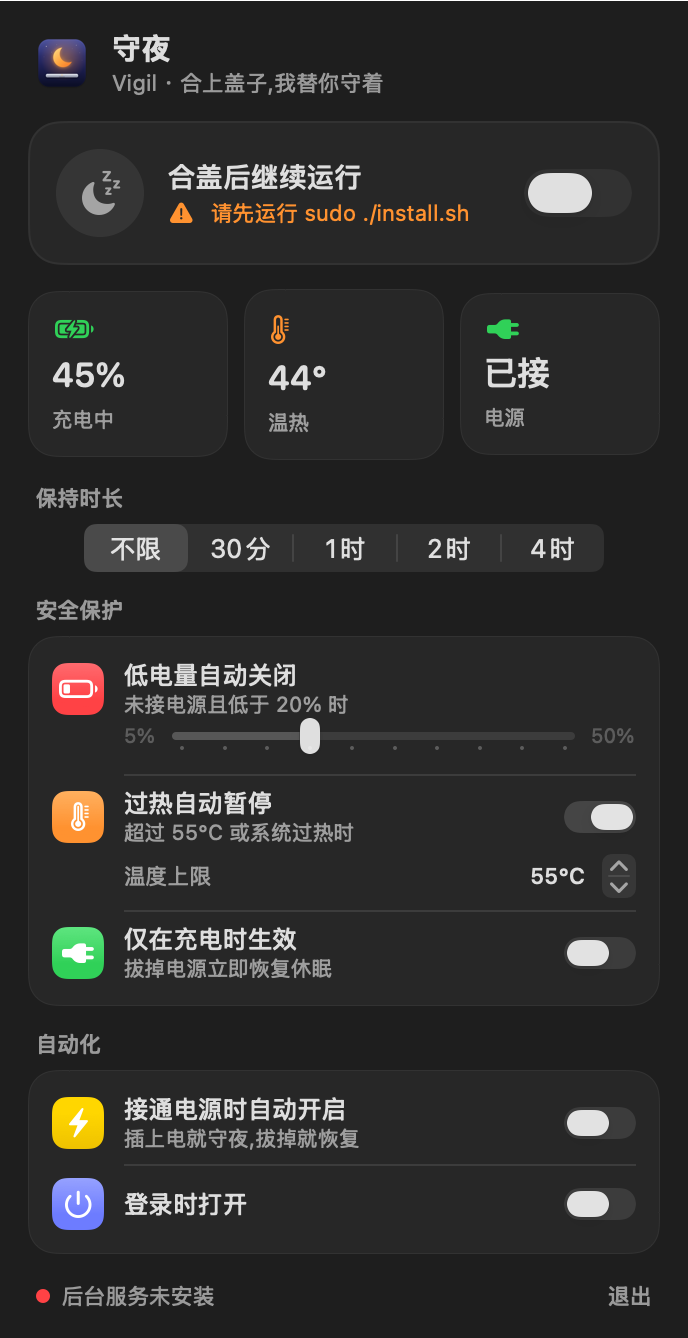
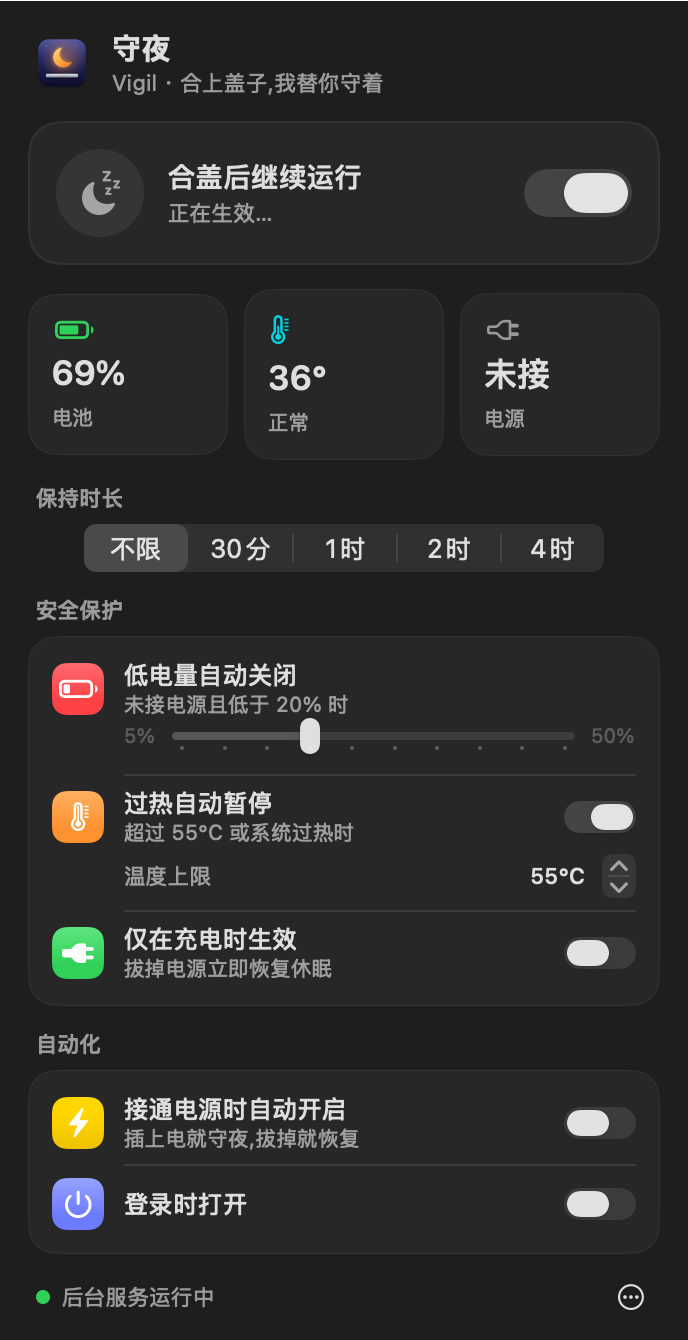
1.1.0: one-click install from the app, DMG release, conflict detection
- Install/update/uninstall the daemon from the panel via the standard
  macOS administrator dialog; no Terminal or Xcode needed
- build.sh --dmg produces a drag-to-Applications disk image
- Daemon records external changes to SleepDisabled; the panel warns
  when another tool is fighting over it
- Panel offers to update the daemon when the bundled copy differs
- Amber menu bar icon while active

diff --git a/App/Sources/PanelView.swift b/App/Sources/PanelView.swift
@@ -7,6 +7,8 @@ struct PanelView: View {
         VStack(spacing: 12) {
             header
             HeroCard()
+            if store.hasConflict { ConflictBanner() }
+            if store.daemonOutdated { UpdateBanner() }
             MetricsRow()
             DurationCard()
             SafetyCard()
@@ -43,13 +45,80 @@ struct PanelView: View {
                 .font(.system(size: 11))
                 .foregroundStyle(.secondary)
             Spacer()
-            Button("退出") { store.quit() }
-                .buttonStyle(.borderless)
-                .font(.system(size: 11, weight: .medium))
-                .foregroundStyle(.secondary)
+            Menu {
+                Button("查看日志") {
+                    NSWorkspace.shared.open(URL(fileURLWithPath: "/var/log/vigil.log"))
+                }
+                Button("GitHub 主页") {
+                    NSWorkspace.shared.open(URL(string: "https://github.com/mqm08/vigil-lid-awake")!)
+                }
+                Divider()
+                Button("卸载守夜…", role: .destructive) { confirmUninstall() }
+                Divider()
+                Button("退出") { store.quit() }
+            } label: {
+                Image(systemName: "ellipsis.circle")
+                    .font(.system(size: 13))
+                    .foregroundStyle(.secondary)
+            }
+            .menuStyle(.borderlessButton)
+            .menuIndicator(.hidden)
+            .fixedSize()
         }
         .padding(.horizontal, 4)
         .padding(.top, 2)
+    }
+}
+
+extension PanelView {
+    private func confirmUninstall() {
+        let alert = NSAlert()
+        alert.messageText = "卸载守夜?"
+        alert.informativeText = "会移除后台服务、设置和应用本身,休眠行为恢复为系统默认。"
+        alert.addButton(withTitle: "卸载")
+        alert.addButton(withTitle: "取消")
+        alert.buttons.first?.hasDestructiveAction = true
+        NSApp.activate(ignoringOtherApps: true)
+        if alert.runModal() == .alertFirstButtonReturn {
+            store.uninstallEverything()
+        }
+    }
+}
+
+struct UpdateBanner: View {
+    @EnvironmentObject var store: Store
+    var body: some View {
+        HStack(spacing: 8) {
+            Image(systemName: "arrow.triangle.2.circlepath.circle.fill")
+                .foregroundStyle(Theme.emberDeep)
+            Text("后台服务有新版本").font(.system(size: 12, weight: .semibold))
+            Spacer(minLength: 0)
+            Button(store.isInstalling ? "更新中…" : "更新") { store.installDaemon() }
+                .buttonStyle(.borderedProminent).tint(Theme.emberDeep).controlSize(.small)
+                .disabled(store.isInstalling)
+        }
+        .padding(10)
+        .background(RoundedRectangle(cornerRadius: 10, style: .continuous).fill(Theme.ember.opacity(0.12)))
+    }
+}
+
+struct ConflictBanner: View {
+    var body: some View {
+        HStack(alignment: .top, spacing: 8) {
+            Image(systemName: "exclamationmark.triangle.fill")
+                .foregroundStyle(.orange)
+            VStack(alignment: .leading, spacing: 2) {
+                Text("有其他程序在修改休眠设置")
+                    .font(.system(size: 12, weight: .semibold))
+                Text("请关闭 Amphetamine、Lidless 等同类工具,否则守夜会时断时续。")
+                    .font(.system(size: 10.5))
+                    .foregroundStyle(.secondary)
+                    .fixedSize(horizontal: false, vertical: true)
+            }
+            Spacer(minLength: 0)
+        }
+        .padding(10)
+        .background(RoundedRectangle(cornerRadius: 10, style: .continuous).fill(Color.orange.opacity(0.12)))
     }
 }
 
@@ -84,12 +153,26 @@ struct HeroCard: View {
 
             Spacer(minLength: 0)
 
-            Toggle("", isOn: Binding(get: { store.config.enabled },
-                                     set: { store.setEnabled($0) }))
-                .toggleStyle(.switch)
+            if store.daemonInstalled {
+                Toggle("", isOn: Binding(get: { store.config.enabled },
+                                         set: { store.setEnabled($0) }))
+                    .toggleStyle(.switch)
+                    .tint(Theme.emberDeep)
+                    .labelsHidden()
+            } else {
+                Button {
+                    store.installDaemon()
+                } label: {
+                    if store.isInstalling {
+                        ProgressView().controlSize(.small).frame(width: 64)
+                    } else {
+                        Text("一键安装").font(.system(size: 12, weight: .semibold)).frame(width: 64)
+                    }
+                }
+                .buttonStyle(.borderedProminent)
                 .tint(Theme.emberDeep)
-                .labelsHidden()
-                .disabled(!store.daemonInstalled)
+                .disabled(store.isInstalling)
+            }
         }
         .padding(14)
         .background(
@@ -109,8 +192,13 @@ struct HeroCard: View {
     @ViewBuilder private var statusLine: some View {
         switch store.status {
         case .notInstalled:
-            Label("请先运行 sudo ./install.sh", systemImage: "exclamationmark.triangle.fill")
-                .font(.system(size: 11)).foregroundStyle(.orange)
+            if let err = store.installError {
+                Label(err, systemImage: "exclamationmark.triangle.fill")
+                    .font(.system(size: 11)).foregroundStyle(.red).lineLimit(2)
+            } else {
+                Text("首次使用需安装后台服务,约 3 秒")
+                    .font(.system(size: 11)).foregroundStyle(.secondary)
+            }
         case .off:
             Text("已关闭 · 合盖会正常休眠").font(.system(size: 11)).foregroundStyle(.secondary)
         case .waiting:

diff --git a/App/Sources/Store.swift b/App/Sources/Store.swift
@@ -44,10 +44,22 @@ struct DaemonState: Decodable {
     var hot = false
     var reason = ""
     var checkedAt: Double = 0
+    var overrideAt: Double = 0
 
     enum CodingKeys: String, CodingKey {
         case hot, reason
         case checkedAt = "checked_at"
+        case overrideAt = "override_at"
+    }
+
+    init() {}
+
+    init(from decoder: Decoder) throws {
+        let c = try decoder.container(keyedBy: CodingKeys.self)
+        hot = try c.decodeIfPresent(Bool.self, forKey: .hot) ?? false
+        reason = try c.decodeIfPresent(String.self, forKey: .reason) ?? ""
+        checkedAt = try c.decodeIfPresent(Double.self, forKey: .checkedAt) ?? 0
+        overrideAt = try c.decodeIfPresent(Double.self, forKey: .overrideAt) ?? 0
     }
 }
 
@@ -66,8 +78,11 @@ final class Store: ObservableObject {
     @Published private(set) var thermal: ProcessInfo.ThermalState = .nominal
     @Published private(set) var daemon = DaemonState()
     @Published private(set) var daemonInstalled = false
+    @Published private(set) var daemonOutdated = false
     @Published private(set) var now = Date()
     @Published var launchAtLogin = SMAppService.mainApp.status == .enabled
+    @Published private(set) var isInstalling = false
+    @Published var installError: String?
 
     private var timer: Timer?
 
@@ -98,6 +113,11 @@ final class Store: ObservableObject {
         }
         if daemon.hot { return .paused("正在降温") }
         return .waiting
+    }
+
+    /// Something other than Vigil switched sleep back on recently.
+    var hasConflict: Bool {
+        daemonInstalled && now.timeIntervalSince1970 - daemon.overrideAt < 300
     }
 
     var daemonHealthy: Bool {
@@ -140,6 +160,35 @@ final class Store: ObservableObject {
         launchAtLogin = SMAppService.mainApp.status == .enabled
     }
 
+    func installDaemon() {
+        isInstalling = true
+        installError = nil
+        DispatchQueue.global(qos: .userInitiated).async {
+            let result = Result { try Installer.install() }
+            DispatchQueue.main.async {
+                self.isInstalling = false
+                if case .failure(let e) = result, !(e is Installer.Failure && e.localizedDescription == "已取消") {
+                    self.installError = e.localizedDescription
+                }
+                self.refresh()
+            }
+        }
+    }
+
+    func uninstallEverything() {
+        do {
+            try Installer.uninstall()
+        } catch {
+            if error.localizedDescription != "已取消" { installError = error.localizedDescription }
+            return
+        }
+        try? FileManager.default.removeItem(at: Self.configURL.deletingLastPathComponent())
+        try? SMAppService.mainApp.unregister()
+        NSWorkspace.shared.recycle([Bundle.main.bundleURL]) { _, _ in
+            NSApplication.shared.terminate(nil)
+        }
+    }
+
     func quit() {
         var c = config
         c.enabled = false
@@ -157,10 +206,21 @@ final class Store: ObservableObject {
         thermal = SystemProbe.thermalState
         isActive = SystemProbe.sleepDisabled()
         daemonInstalled = FileManager.default.fileExists(atPath: Self.daemonPlist)
+        daemonOutdated = daemonInstalled && Self.installedDaemonDiffers()
         if let data = try? Data(contentsOf: Self.stateURL),
            let s = try? JSONDecoder().decode(DaemonState.self, from: data) {
             daemon = s
         }
+    }
+
+    private static func installedDaemonDiffers() -> Bool {
+        guard let bundled = Bundle.main.resourceURL?.appendingPathComponent("daemon") else { return false }
+        for file in ["vigild.py", "thermal.py"] {
+            let a = try? Data(contentsOf: bundled.appendingPathComponent(file))
+            let b = try? Data(contentsOf: URL(fileURLWithPath: "/usr/local/libexec/vigil/\(file)"))
+            if a != nil, a != b { return true }
+        }
+        return false
     }
 
     private func refreshSoon() {

diff --git a/App/Sources/Installer.swift b/App/Sources/Installer.swift
@@ -1,0 +1,63 @@
+import Foundation
+
+/// Installs / removes the privileged daemon using the standard macOS
+/// administrator password dialog. The app itself never sees the password.
+enum Installer {
+
+    enum Failure: LocalizedError {
+        case cancelled
+        case script(String)
+
+        var errorDescription: String? {
+            switch self {
+            case .cancelled: return "已取消"
+            case .script(let msg): return msg
+            }
+        }
+    }
+
+    private static var resources: String {
+        Bundle.main.resourceURL!.appendingPathComponent("daemon").path
+    }
+
+    static func install() throws {
+        let r = resources
+        try runAsAdmin("""
+        set -e
+        install -d -m 755 -o root -g wheel /usr/local/libexec/vigil
+        install -m 755 -o root -g wheel '\(r)/vigild.py'  /usr/local/libexec/vigil/vigild.py
+        install -m 644 -o root -g wheel '\(r)/thermal.py' /usr/local/libexec/vigil/thermal.py
+        install -m 644 -o root -g wheel '\(r)/com.vigil.daemon.plist' /Library/LaunchDaemons/com.vigil.daemon.plist
+        launchctl bootout system/com.vigil.daemon 2>/dev/null || true
+        launchctl bootstrap system /Library/LaunchDaemons/com.vigil.daemon.plist
+        """)
+    }
+
+    static func uninstall() throws {
+        try runAsAdmin("""
+        launchctl bootout system/com.vigil.daemon 2>/dev/null || true
+        rm -f /Library/LaunchDaemons/com.vigil.daemon.plist
+        rm -rf /usr/local/libexec/vigil
+        rm -f /var/run/vigil.state.json
+        pmset -a disablesleep 0
+        """)
+    }
+
+    private static func runAsAdmin(_ shell: String) throws {
+        let escaped = shell
+            .replacingOccurrences(of: "\\", with: "\\\\")
+            .replacingOccurrences(of: "\"", with: "\\\"")
+        let source = """
+        do shell script "\(escaped)" with prompt "守夜需要安装后台服务来管理休眠设置。" with administrator privileges
+        """
+        var error: NSDictionary?
+        guard let script = NSAppleScript(source: source) else {
+            throw Failure.script("无法创建安装脚本")
+        }
+        script.executeAndReturnError(&error)
+        if let error {
+            if (error[NSAppleScript.errorNumber] as? Int) == -128 { throw Failure.cancelled }
+            throw Failure.script(error[NSAppleScript.errorMessage] as? String ?? "安装失败")
+        }
+    }
+}

diff --git a/daemon/vigild.py b/daemon/vigild.py
@@ -136,7 +136,7 @@ def decide(cfg, state):
 
 
 def main():
-    state = load_json(STATE_PATH, {"hot": False})
+    state = load_json(STATE_PATH, {"hot": False, "last_set": None, "override_at": 0})
 
     if not console_user():
         if sleep_disabled():
@@ -150,12 +150,21 @@ def main():
 
     if hot != state.get("hot"):
         log("thermal pause {}".format("ON" if hot else "OFF"))
-    save_state({"hot": hot, "reason": reason, "checked_at": int(time.time())})
 
     current = sleep_disabled()
+    override_at = state.get("override_at", 0)
+    last_set = state.get("last_set")
+    if last_set is not None and current != last_set:
+        # Someone else flipped the flag since our last run.
+        override_at = int(time.time())
+        log("external change detected: SleepDisabled {} -> {}".format(int(last_set), int(current)))
+
     if want != current:
         set_sleep_disabled(want)
         log("SleepDisabled {} -> {}  ({})".format(int(current), int(want), reason))
+
+    save_state({"hot": hot, "reason": reason, "checked_at": int(time.time()),
+                "last_set": want, "override_at": override_at})
 
 
 if __name__ == "__main__":
